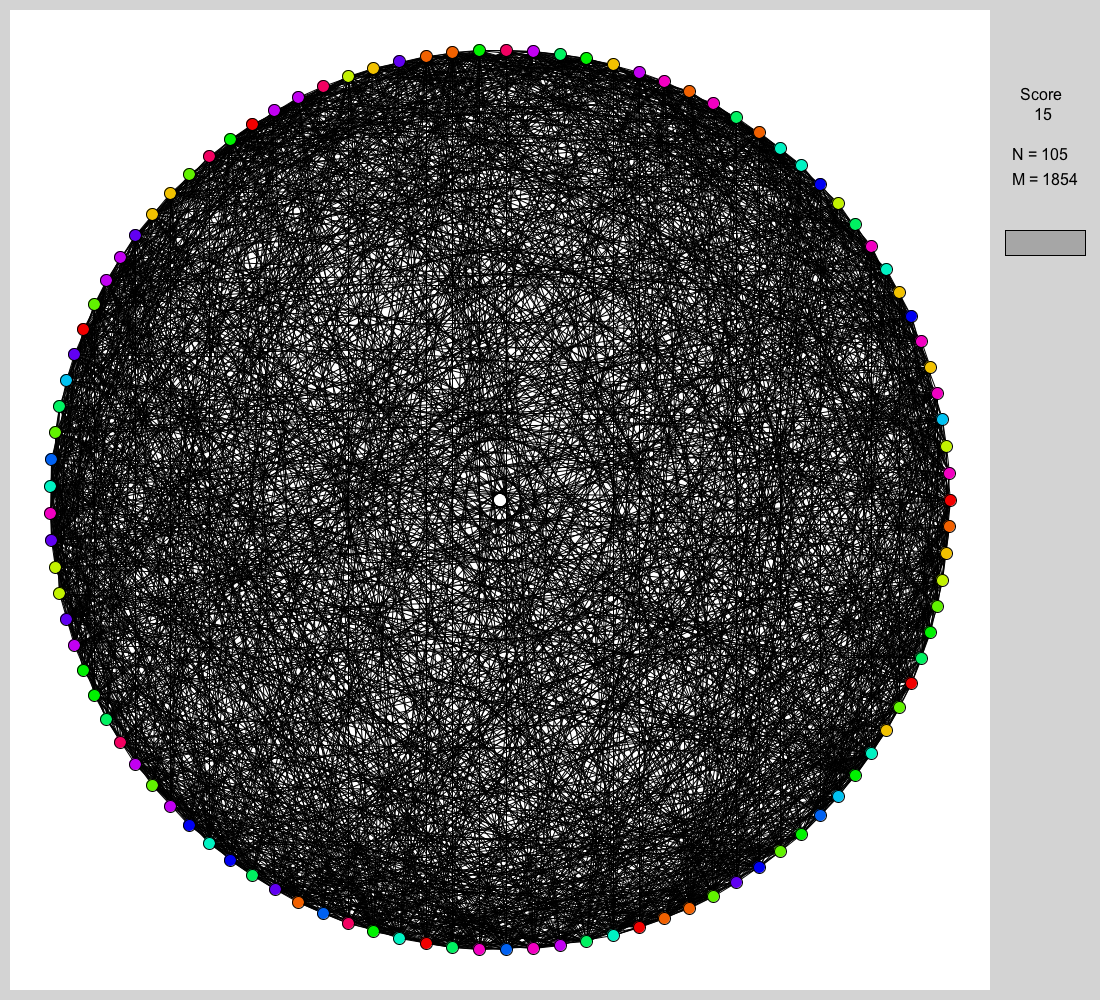
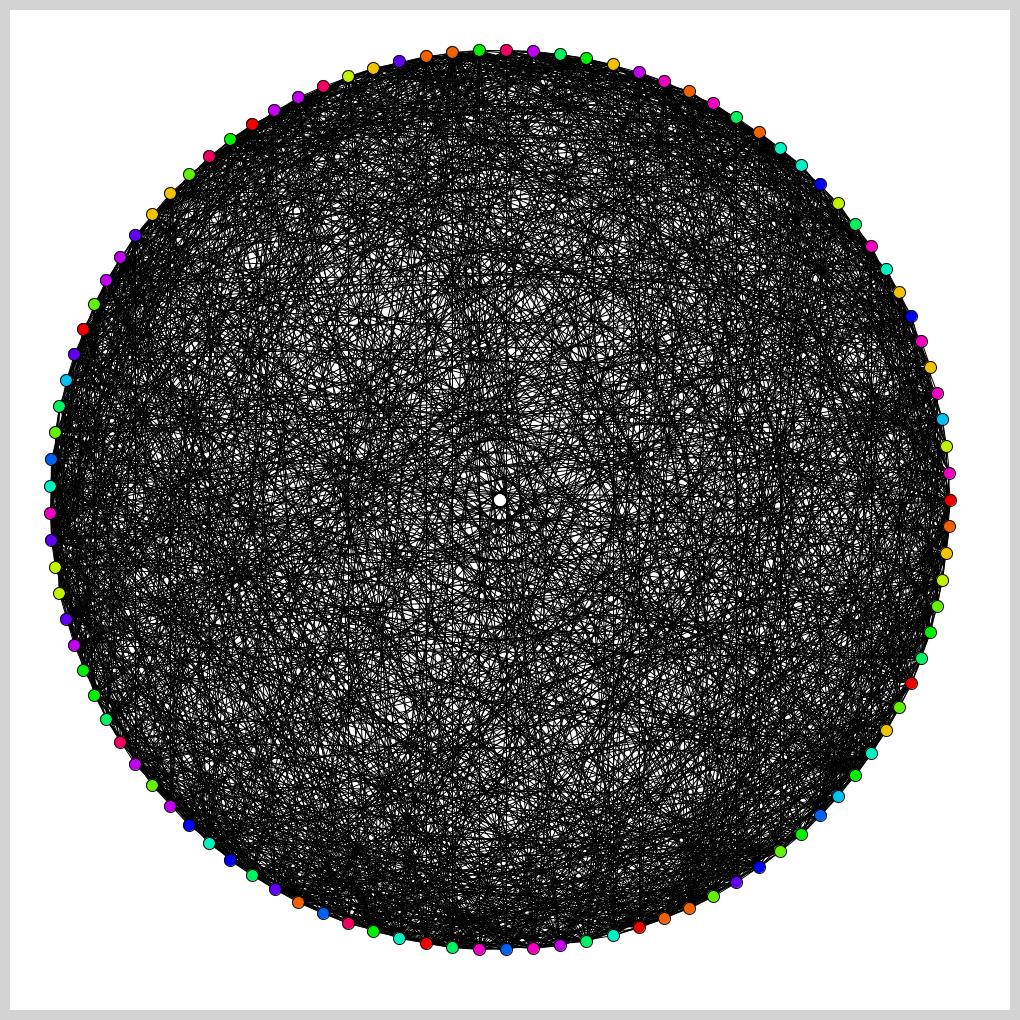
ビジュアライザを修正した．

diff --git a/GraphColoring/tester/Tester.java b/GraphColoring/tester/Tester.java
@@ -22,7 +22,6 @@ public class Tester {
     static String fileName, exec;
     static boolean vis;
     static int sel_ver;
-    static boolean press;
 
     final int MAXN = 200, MINN = 20;
     int VIS_SIZE = 1000;
@@ -39,13 +38,13 @@ public class Tester {
         
         public void paint(Graphics g) {
             try {
-                BufferedImage bi = new BufferedImage(VIS_SIZE + 100, VIS_SIZE, BufferedImage.TYPE_INT_RGB);
+                BufferedImage bi = new BufferedImage(VIS_SIZE + 20, VIS_SIZE + 20, BufferedImage.TYPE_INT_RGB);
                 Graphics2D g2 = (Graphics2D)bi.getGraphics();
                 g2.setRenderingHint(RenderingHints.KEY_ANTIALIASING, RenderingHints.VALUE_ANTIALIAS_ON);
                 g2.setColor(new Color(0xD3D3D3));
-                g2.fillRect(0, 0, VIS_SIZE + 100, VIS_SIZE);
+                g2.fillRect(0, 0, VIS_SIZE + 20, VIS_SIZE + 20);
                 g2.setColor(new Color(0xFFFFFF));
-                g2.fillRect(10, 10, VIS_SIZE - 20, VIS_SIZE - 20);
+                g2.fillRect(10, 10, VIS_SIZE, VIS_SIZE);
                 for (int i = 0; i < M; i++) {
                     if (a[i] == sel_ver) continue;
                     if (b[i] == sel_ver) continue;
@@ -86,34 +85,9 @@ public class Tester {
                             g2.drawChars(cht, 0, cht.length, numX[a[i]], numY[a[i]]);
                         }
                     }
-                }
-                g2.setFont(new Font("Arial", Font.PLAIN, 16));
-                FontMetrics fm = g2.getFontMetrics();
-                char[] chs1 = ("     Score").toCharArray();
-                char[] chs2 = ("" + Score).toCharArray();
-                char[] chn = ("   N = " + N).toCharArray();
-                char[] chm = ("   M = " + M).toCharArray();
-                g2.drawChars(chs1, 0, chs1.length, VIS_SIZE, 100);
-                g2.drawChars(chs2, 0, chs2.length, VIS_SIZE + 50 - chs2.length * 8, 120);
-                g2.drawChars(chn, 0, chn.length, VIS_SIZE, 160);
-                g2.drawChars(chm, 0, chm.length, VIS_SIZE, 185);
-                if (press) {
-                    g2.setColor(new Color(0xA6A6A6));
-                    g2.fillRect(VIS_SIZE + 5, 230, 80, 25);
-                    g2.setColor(new Color(0x000000));
-                    g2.drawRect(VIS_SIZE + 5, 230, 80, 25);
-                    char[]chsave = ("save").toCharArray();
-                    g2.drawChars(chsave, 0, chsave.length, VIS_SIZE + 28, 248);
-                    ImageIO.write(bi, "png", new File(fileName +".png"));
-                } else {
-                    g2.setColor(new Color(0xD4D4D4));
-                    g2.fillRect(VIS_SIZE + 5, 230, 80, 25);
-                    g2.setColor(new Color(0x000000));
-                    g2.drawRect(VIS_SIZE + 5, 230, 80, 25);
-                    char[]chsave = ("save").toCharArray();
-                    g2.drawChars(chsave, 0, chsave.length, VIS_SIZE + 28, 248);
-                }
-                g.drawImage(bi, 0, 0, VIS_SIZE + 100, VIS_SIZE, null);
+                }    
+                g.drawImage(bi, 0, 0, VIS_SIZE + 20, VIS_SIZE + 20, null);
+                ImageIO.write(bi, "png", new File(fileName +".png"));
             } catch (Exception e) { 
                 e.printStackTrace();
             }
@@ -154,26 +128,12 @@ public class Tester {
                     return;
                 }
             }
-            if (x <= VIS_SIZE + 85 && x >= VIS_SIZE + 5) {
-                if (y <= 250 && y >= 230) { 
-                    if (!press) {
-                        press = true;
-                        repaint();
-                        return;
-                    }
-                }
-            }
         }
 
-        public void mouseReleased(MouseEvent e) {
-            press = false;
-            repaint();
-        }
-
+        public void mouseReleased(MouseEvent e) { }
         public void mouseClicked(MouseEvent e) { }
         public void mouseEntered(MouseEvent e) { }
         public void mouseExited(MouseEvent e) { }
-
     }
 
     /********************************************************************/
@@ -249,7 +209,7 @@ public class Tester {
         }
 
         if (vis) {
-            jf.setSize(VIS_SIZE + 100, VIS_SIZE);
+            jf.setSize(VIS_SIZE + 20, VIS_SIZE + 20);
             jf.setVisible(true);
         }
         return (double)Score;

diff --git a/GraphColoring/sample/cpp/GraphColoring.cpp b/GraphColoring/sample/cpp/GraphColoring.cpp
@@ -6,7 +6,7 @@ int main () {
 
     int N,M;
     cin >> N >> M;
-	
+
     vector < int > a(M),b(M);
     for (int i = 0; i < M; i++) {
         cin >> a[i] >> b[i];
